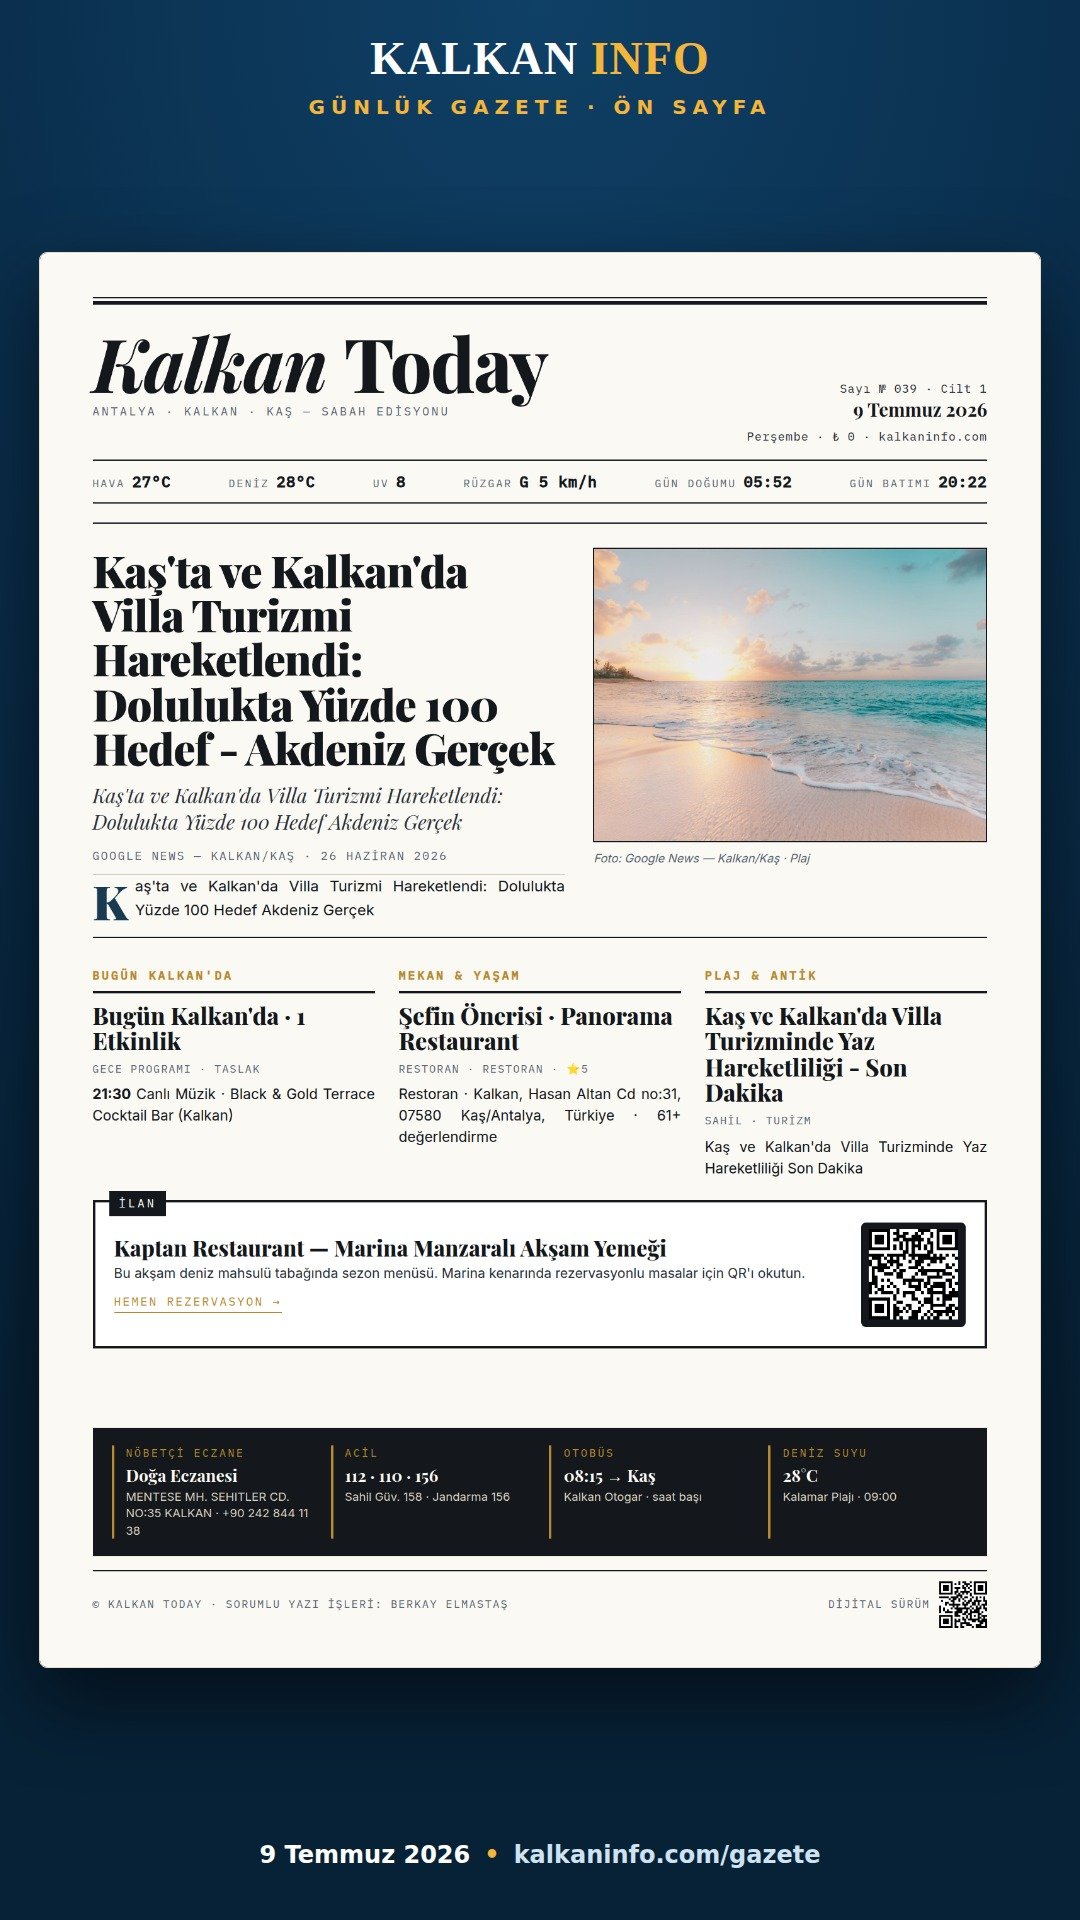
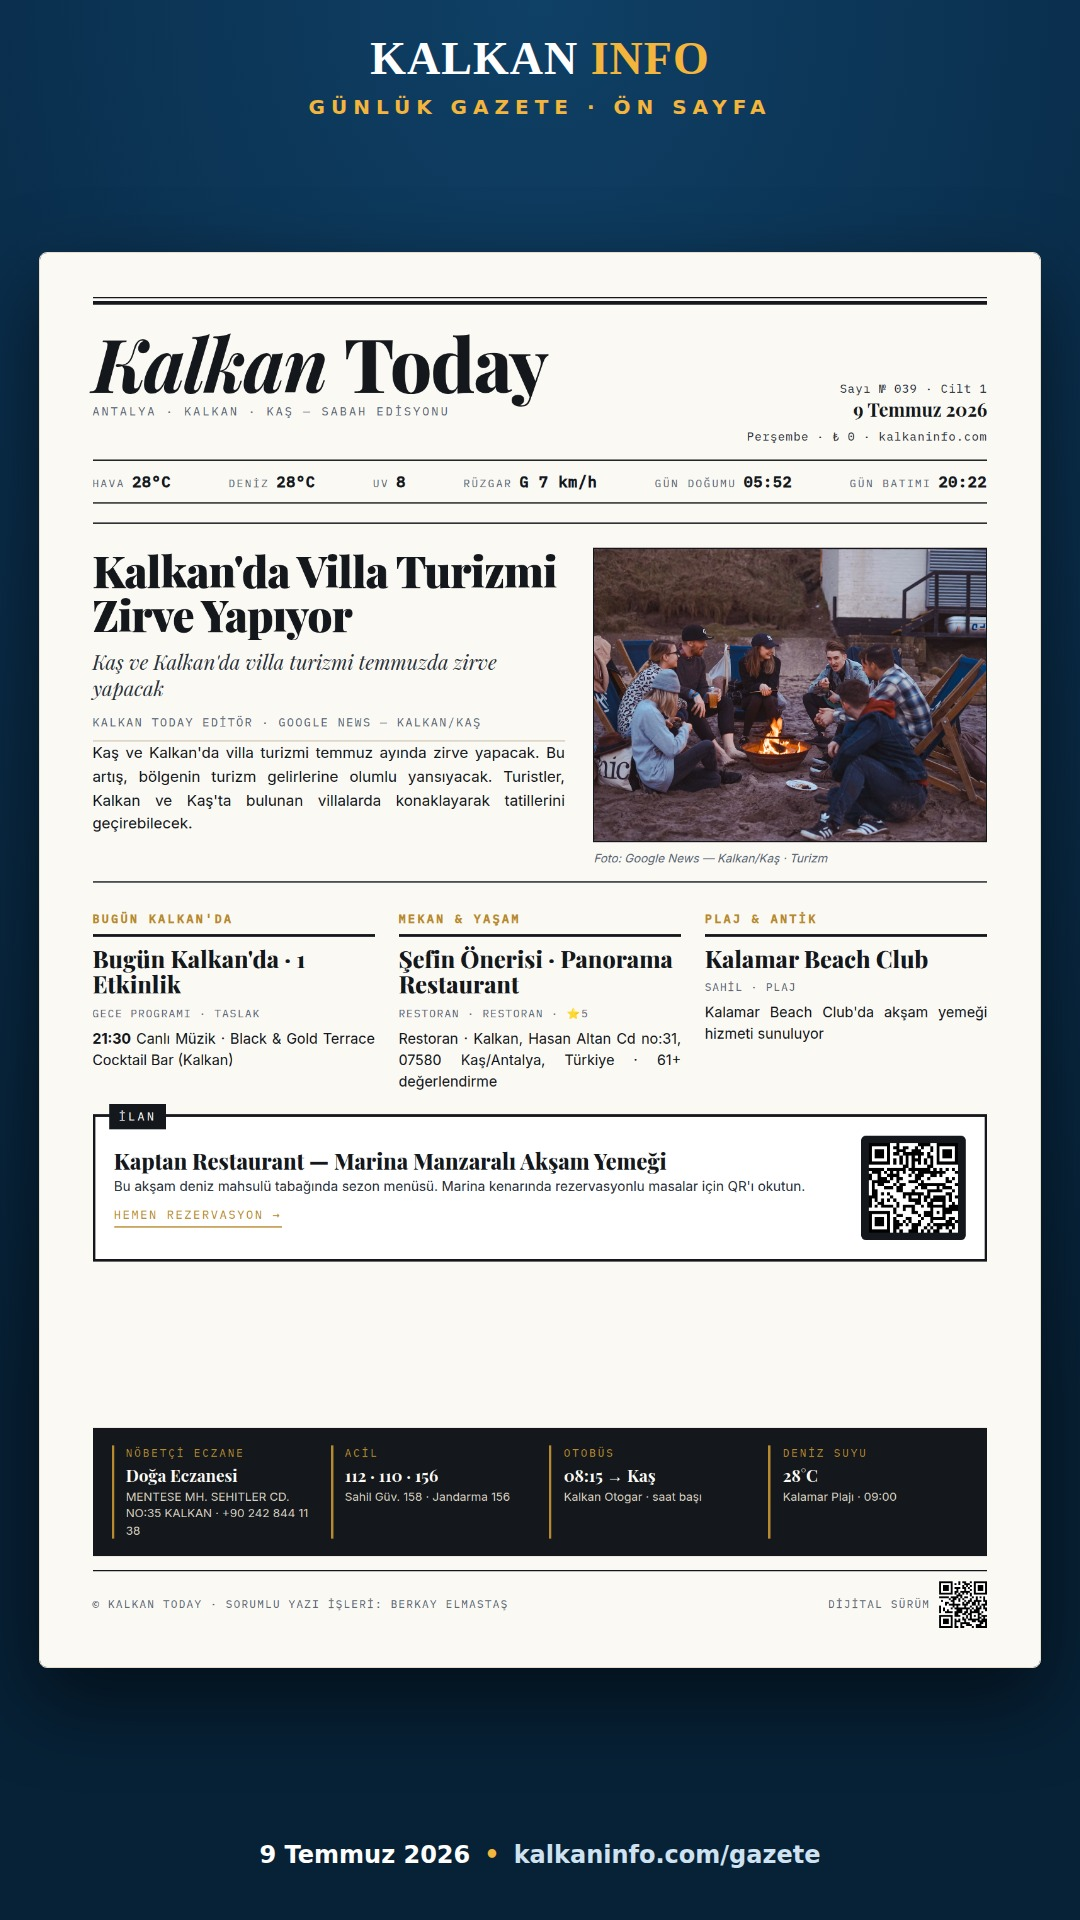
content(gazete): günlük sayı 2026-07-09 [auto]

Changed region(s): [[0.0611, 0.2812, 0.9167, 0.7188]]

diff --git a/newspaper/archive/2026-07-09/morning.html b/newspaper/archive/2026-07-09/morning.html
@@ -164,7 +164,7 @@
     color: #1a3a52;
   }
   .lead-image {
-    background: #d7cfc0 url('https://images.unsplash.com/photo-1507525428034-b723cf961d3e?auto=format&fit=crop&w=1200&q=80') center/cover;
+    background: #d7cfc0 url('https://images.unsplash.com/photo-1530541930197-ff16ac917b0e?auto=format&fit=crop&w=1200&q=80') center/cover;
     width: 100%;
     aspect-ratio: 4/3;
     border: 1px solid #14181c;
@@ -339,10 +339,10 @@
       </div>
     </div>
     <div class="weather-strip">
-      <div class="item"><span class="lbl">Hava</span><span class="val">27°C</span></div>
+      <div class="item"><span class="lbl">Hava</span><span class="val">28°C</span></div>
       <div class="item"><span class="lbl">Deniz</span><span class="val">28°C</span></div>
       <div class="item"><span class="lbl">UV</span><span class="val">8</span></div>
-      <div class="item"><span class="lbl">Rüzgar</span><span class="val">G 5 km/h</span></div>
+      <div class="item"><span class="lbl">Rüzgar</span><span class="val">G 7 km/h</span></div>
       <div class="item"><span class="lbl">Gün Doğumu</span><span class="val">05:52</span></div>
       <div class="item"><span class="lbl">Gün Batımı</span><span class="val">20:22</span></div>
     </div>
@@ -351,16 +351,16 @@
   <!-- ═══ LEAD STORY ═══ -->
   <section class="lead">
     <div>
-      <h1 class="lead-headline">Kaş'ta ve Kalkan'da Villa Turizmi Hareketlendi: Dolulukta Yüzde 100 Hedef - Akdeniz Gerçek</h1>
-      <p class="lead-deck">Kaş'ta ve Kalkan'da Villa Turizmi Hareketlendi: Dolulukta Yüzde 100 Hedef Akdeniz Gerçek</p>
-      <div class="lead-byline">Google News — Kalkan/Kaş · 26 Haziran 2026</div>
+      <h1 class="lead-headline">Kalkan'da Villa Turizmi Zirve Yapıyor</h1>
+      <p class="lead-deck">Kaş ve Kalkan'da villa turizmi temmuzda zirve yapacak</p>
+      <div class="lead-byline">Kalkan Today Editör · Google News — Kalkan/Kaş</div>
       <div class="lead-body">
-        <p>Kaş'ta ve Kalkan'da Villa Turizmi Hareketlendi: Dolulukta Yüzde 100 Hedef Akdeniz Gerçek</p>
+        Kaş ve Kalkan'da villa turizmi temmuz ayında zirve yapacak. Bu artış, bölgenin turizm gelirlerine olumlu yansıyacak. Turistler, Kalkan ve Kaş'ta bulunan villalarda konaklayarak tatillerini geçirebilecek.
       </div>
     </div>
     <div>
       <div class="lead-image"></div>
-      <p class="lead-caption">Foto: Google News — Kalkan/Kaş · Plaj</p>
+      <p class="lead-caption">Foto: Google News — Kalkan/Kaş · Turizm</p>
     </div>
   </section>
 
@@ -382,9 +382,9 @@
 
     <article class="col">
       <h3 class="kicker">Plaj & Antik</h3>
-      <h2>Kaş ve Kalkan'da Villa Turizminde Yaz Hareketliliği - Son Dakika</h2>
-      <div class="byline">Sahil · Turizm</div>
-      <p>Kaş ve Kalkan'da Villa Turizminde Yaz Hareketliliği Son Dakika</p>
+      <h2>Kalamar Beach Club</h2>
+      <div class="byline">Sahil · Plaj</div>
+      <p>Kalamar Beach Club'da akşam yemeği hizmeti sunuluyor</p>
     </article>
   </section>
 
